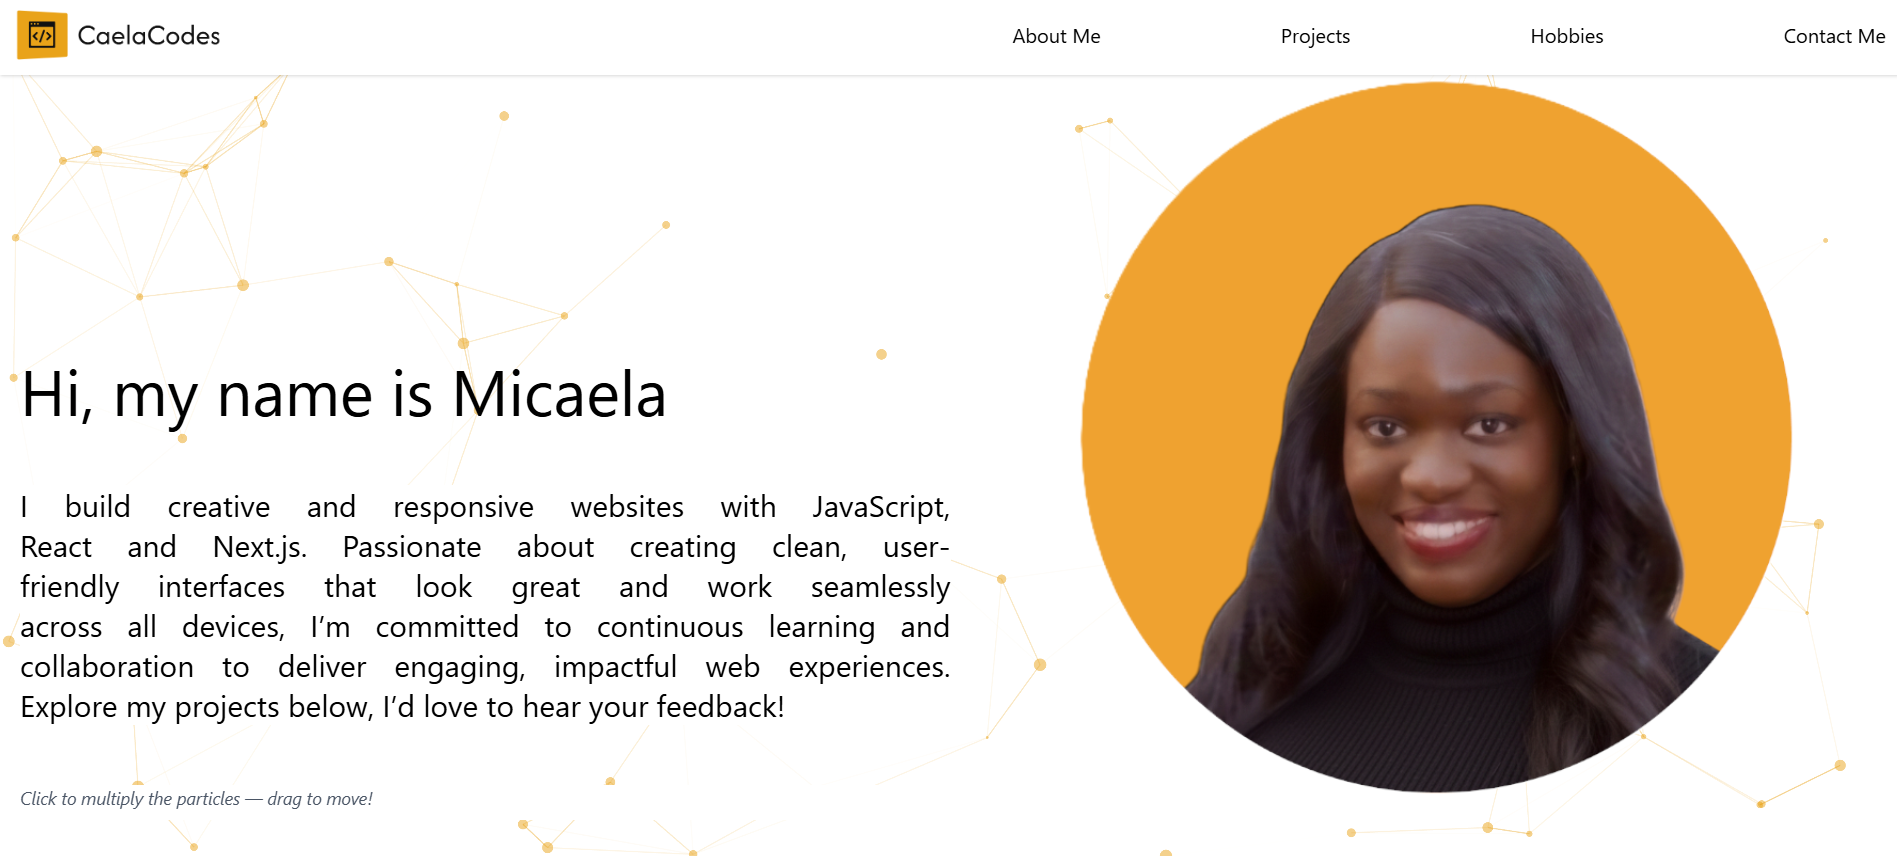
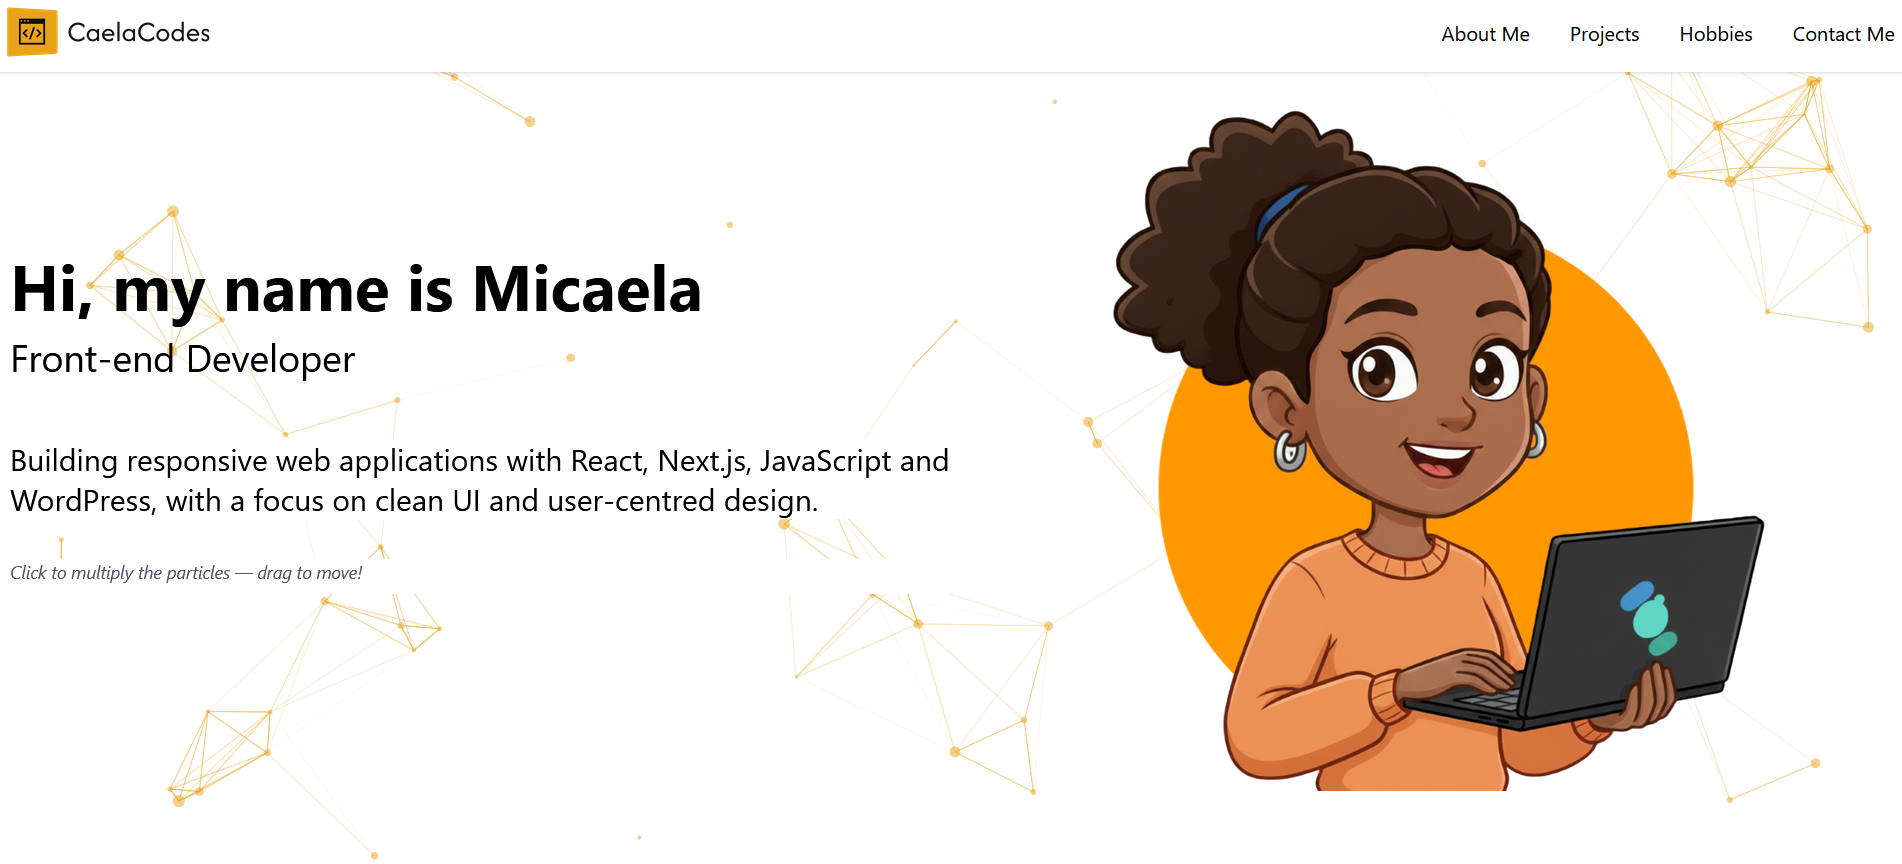
update/change herobanner image

diff --git a/src/components/sections/HeroBanner.jsx b/src/components/sections/HeroBanner.jsx
@@ -16,7 +16,7 @@ function HeroBanner() {
 
   return (
     <div className="flex flex-col lg:flex-row-reverse sm:max-w-screen min-h-screen">
-      <div className="flex justify-center items-center lg:w-1/2 pt-12 md:pt-3">
+      <div className="flex justify-center items-center lg:w-1/2 pt-18 md:pt-3">
         <img
           src={headshot}
           className="h-64 md:h-80 lg:h-[80vh] w-auto object-contain"
@@ -31,24 +31,24 @@ function HeroBanner() {
       >
         <motion.h1
           variants={fadeInLeft}
-          className="text-3xl sm:text-4xl md:text-5xl font-bold mb-3"
+          className="text-3xl sm:text-4xl md:text-6xl font-bold  mb-3"
         >
           Hi, my name is Micaela
         </motion.h1>
 
         <motion.p
           variants={fadeInLeft}
-          className="text-xl sm:text-2xl md:text-3xl font-medium mb-4"
+          className="text-xl sm:text-2xl md:text-3xl  mb-4"
         >
-          Aspiring Front-end Developer
+          Front-end Developer
         </motion.p>
 
         <motion.p
           variants={fadeInLeft}
           className="text-base sm:text-lg md:text-xl lg:text-2xl text-left max-w-prose my-6 md:my-8 bg-white "
         >
-          Creating responsive, clean web experiences with JavaScript, React,
-          Next.js, and WordPress.
+          Building responsive web applications with React, Next.js, JavaScript
+          and WordPress, with a focus on clean UI and user-centred design.
         </motion.p>
 
         <motion.p

diff --git a/src/components/common/Cards.jsx b/src/components/common/Cards.jsx
@@ -20,7 +20,7 @@ function Cards({ image, title, description, button, tools }) {
       <div className="project-content flex flex-col flex-grow p-6">
         <img
           src={image}
-          className="object-cover rounded-xl w-full h-[200px] md:h-[218px] lg:h-[250px] bg-orange-100"
+          className="object-contain rounded-xl w-full h-[200px] md:h-[218px] lg:h-[250px] bg-orange-100"
         />
         <h2 className=" font-bold mt-2 mb-2">{title}</h2>
         <p>{description}</p>
